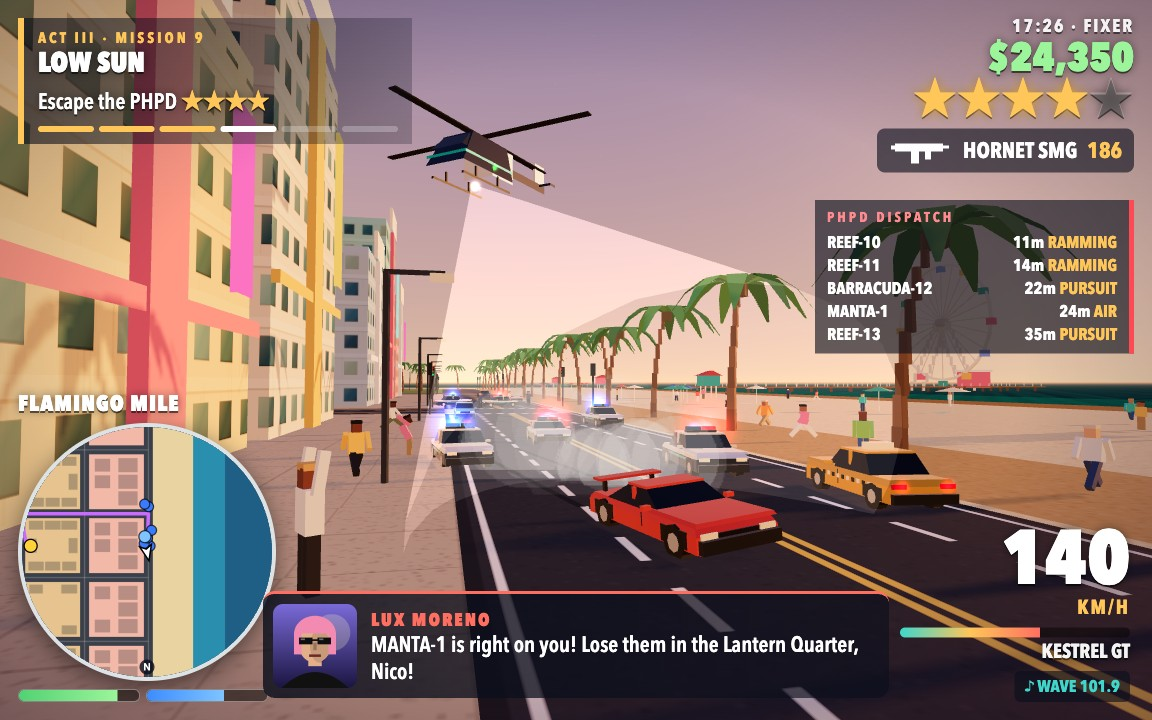
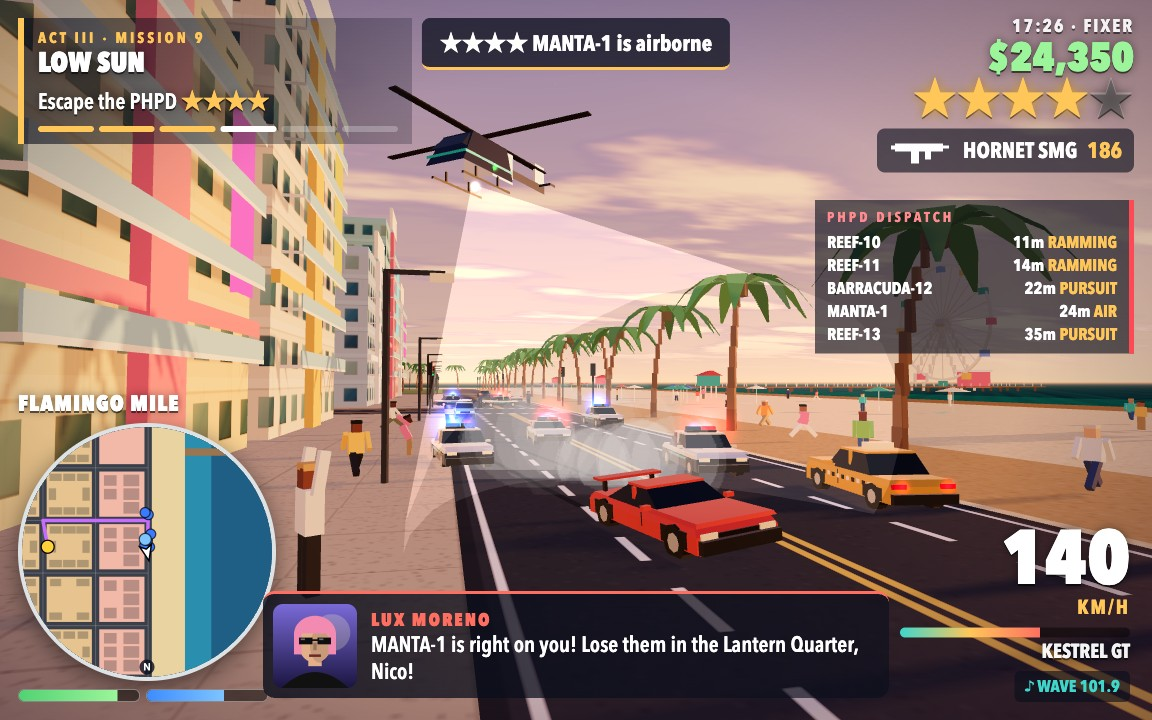
Sunset clouds, hotel balconies, calmer high-speed steering, title screen layout for small windows; new screenshots

diff --git a/game/js/render/sky.js b/game/js/render/sky.js
@@ -14,13 +14,31 @@ const frag = `
 uniform vec3 topColor; uniform vec3 horizonColor; uniform vec3 groundColor;
 uniform vec3 sunDir; uniform vec3 sunColor; uniform float sunSize; uniform float stars;
 varying vec3 vDir;
+uniform float cloudShade;
 float hash(vec3 p) { return fract(sin(dot(p, vec3(12.9898, 78.233, 45.164))) * 43758.5453); }
+float hash2(vec2 p) { return fract(sin(dot(p, vec2(127.1, 311.7))) * 43758.5453); }
+float noise2(vec2 p) {
+  vec2 i = floor(p), f = fract(p);
+  f = f * f * (3.0 - 2.0 * f);
+  return mix(mix(hash2(i), hash2(i + vec2(1.0, 0.0)), f.x), mix(hash2(i + vec2(0.0, 1.0)), hash2(i + vec2(1.0, 1.0)), f.x), f.y);
+}
+float fbm(vec2 p) { float v = 0.0, a = 0.5; for (int i = 0; i < 5; i++) { v += a * noise2(p); p *= 2.03; a *= 0.5; } return v; }
 void main() {
   vec3 d = normalize(vDir);
   float h = d.y;
   vec3 col = mix(horizonColor, topColor, pow(clamp(h, 0.0, 1.0), 0.42));
   col = mix(col, groundColor, smoothstep(0.0, -0.12, h));
   float sd = max(dot(d, normalize(sunDir)), 0.0);
+  // streaky sunset clouds projected on a high plane, lit warm on the sun side
+  if (h > 0.0) {
+    vec2 uv = d.xz / (h + 0.08) * 0.9;
+    float c = fbm(uv * vec2(1.0, 2.6) + vec2(3.1, 1.7));
+    float cover = smoothstep(0.44, 0.66, c) * smoothstep(0.01, 0.08, h) * (1.0 - smoothstep(0.4, 0.75, h));
+    vec3 lit = mix(horizonColor * 1.25 + vec3(0.12, 0.02, 0.06), sunColor * 1.9 + vec3(0.2, 0.06, 0.1), pow(sd, 2.0));
+    vec3 shade = topColor * 0.55 + vec3(0.16, 0.08, 0.16);
+    vec3 cloudCol = mix(shade, lit, smoothstep(0.46, 0.72, c));
+    col = mix(col, cloudCol * cloudShade, cover * 0.9);
+  }
   col += sunColor * pow(sd, 6.0) * 0.45;
   col += sunColor * pow(sd, 60.0) * 0.9;
   col += sunColor * smoothstep(1.0 - sunSize, 1.0 - sunSize * 0.6, sd) * 3.0;
@@ -37,7 +55,7 @@ void main() {
 export function createSky(scene, renderer) {
   const uniforms = {
     topColor: { value: new THREE.Color() }, horizonColor: { value: new THREE.Color() }, groundColor: { value: new THREE.Color() },
-    sunDir: { value: new THREE.Vector3(-0.8, 0.2, 0.3) }, sunColor: { value: new THREE.Color() }, sunSize: { value: 0.0016 }, stars: { value: 0 },
+    sunDir: { value: new THREE.Vector3(-0.8, 0.2, 0.3) }, sunColor: { value: new THREE.Color() }, sunSize: { value: 0.0016 }, stars: { value: 0 }, cloudShade: { value: 1 },
   };
   const material = new THREE.ShaderMaterial({ vertexShader: vert, fragmentShader: frag, uniforms, side: THREE.BackSide, depthWrite: false, fog: false });
   const dome = new THREE.Mesh(new THREE.SphereGeometry(2500, 32, 16), material);

diff --git a/game/styles/menus.css b/game/styles/menus.css
@@ -1,7 +1,9 @@
 /* Title screen and pause menu. */
 .screen { position: fixed; inset: 0; z-index: 20; display: flex; flex-direction: column; }
 #title-screen { align-items: flex-start; justify-content: center; padding: 0 6vw; background: linear-gradient(90deg, rgba(14,8,30,0.82) 0%, rgba(14,8,30,0.45) 45%, rgba(14,8,30,0) 75%); }
-#title-logo { width: min(620px, 52vw); height: auto; }
+#title-logo { width: min(560px, 46vw); height: auto; }
+#title-screen .features { position: absolute; right: 3vw; bottom: 4vh; max-width: min(520px, 42vw); margin: 0; font-size: 14.5px; line-height: 1.4; }
+#title-screen .title-hint { position: absolute; left: 6vw; bottom: 3vh; margin: 0; }
 .tagline { font-size: 22px; font-weight: 600; letter-spacing: 2px; margin: 0 0 18px 6px; color: #ffd9b0; text-shadow: 0 2px 6px rgba(0,0,0,0.6); }
 .title-menu { display: flex; flex-direction: column; gap: 8px; margin-left: 6px; }
 .menu-btn { pointer-events: auto; font-family: var(--hk-font); font-size: 24px; font-weight: 800; letter-spacing: 2px; text-transform: uppercase; text-align: left; color: #fff; background: rgba(10,14,28,0.55); border: none; border-left: 5px solid transparent; padding: 9px 22px; min-width: 280px; cursor: pointer; }

diff --git a/game/js/world/cityBuilder.js b/game/js/world/cityBuilder.js
@@ -111,6 +111,12 @@ export function buildCity(scene, dayNight) {
       ch.detail.box(ux, roofY + 1, uz, rnd.range(2, 4), 2, rnd.range(2, 4), vcolor('#b9bcc0'));
     }
     if (b.trim) {
+      // ocean-view balconies with glass rails on every floor of the beach face
+      const face = b.x - b.w / 2;
+      for (let fy = 4.4; fy < b.h - 2.5; fy += 3.5) {
+        ch.detail.box(face - 0.65, fy, b.z, 1.3, 0.2, b.d * 0.8, vcolor('#fbf6ec'));
+        ch.detail.box(face - 1.25, fy + 0.55, b.z, 0.08, 0.9, b.d * 0.8, vcolor('#a9dbe8'));
+      }
       // deco fins and a coloured stripe on the beach face
       const trim = vcolor(rnd.pick(['#ffffff', '#3fb8b0', '#f2789a', '#f6c35a']));
       ch.detail.box(b.x - b.w / 2 - 0.3, b.h / 2, b.z, 0.6, b.h + 2, 3, trim);

diff --git a/game/js/entities/vehicle.js b/game/js/entities/vehicle.js
@@ -49,7 +49,8 @@ export class Vehicle {
     // steering: eases in, narrows with speed
     this.steer += (c.steer - this.steer) * Math.min(1, dt * 7);
     const absV = Math.abs(this.speed);
-    const steerAngle = this.steer * 0.62 / (1 + absV * 0.045);
+    // steering narrows with speed so the car stays planted on the boulevard but turns tight in town
+    const steerAngle = this.steer * 0.62 / (1 + absV * 0.085);
     const wheelbase = s.len * 0.62;
     let yawRate = (this.speed / wheelbase) * Math.tan(steerAngle);
     if (c.handbrake && absV > 6) yawRate *= 1.45;

diff --git a/game/js/render/dayNightCycle.js b/game/js/render/dayNightCycle.js
@@ -45,6 +45,7 @@ export function createDayNightCycle({ scene, renderer, hemi, sun, sunDir, sky })
     mixHex(a.sun, b.sun, t, sky.uniforms.sunColor.value);
     sky.uniforms.sunColor.value.multiplyScalar(night ? 0 : 1);
     sky.uniforms.stars.value = n('stars');
+    sky.uniforms.cloudShade.value = 1 - n('glow') * 0.55;
     mixHex(a.fog, b.fog, t, scene.fog.color);
     scene.fog.density = n('fogD');
     mixHex(a.hemiS, b.hemiS, t, hemi.color);
